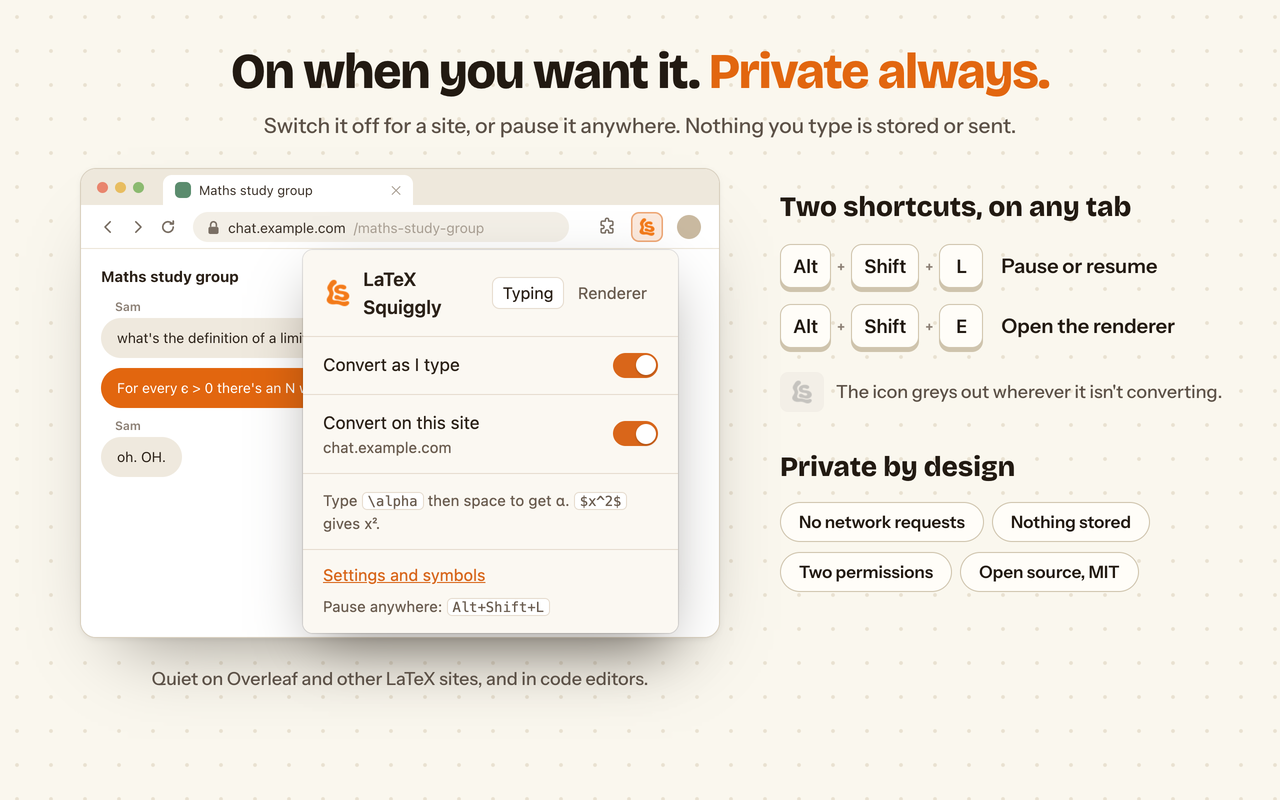
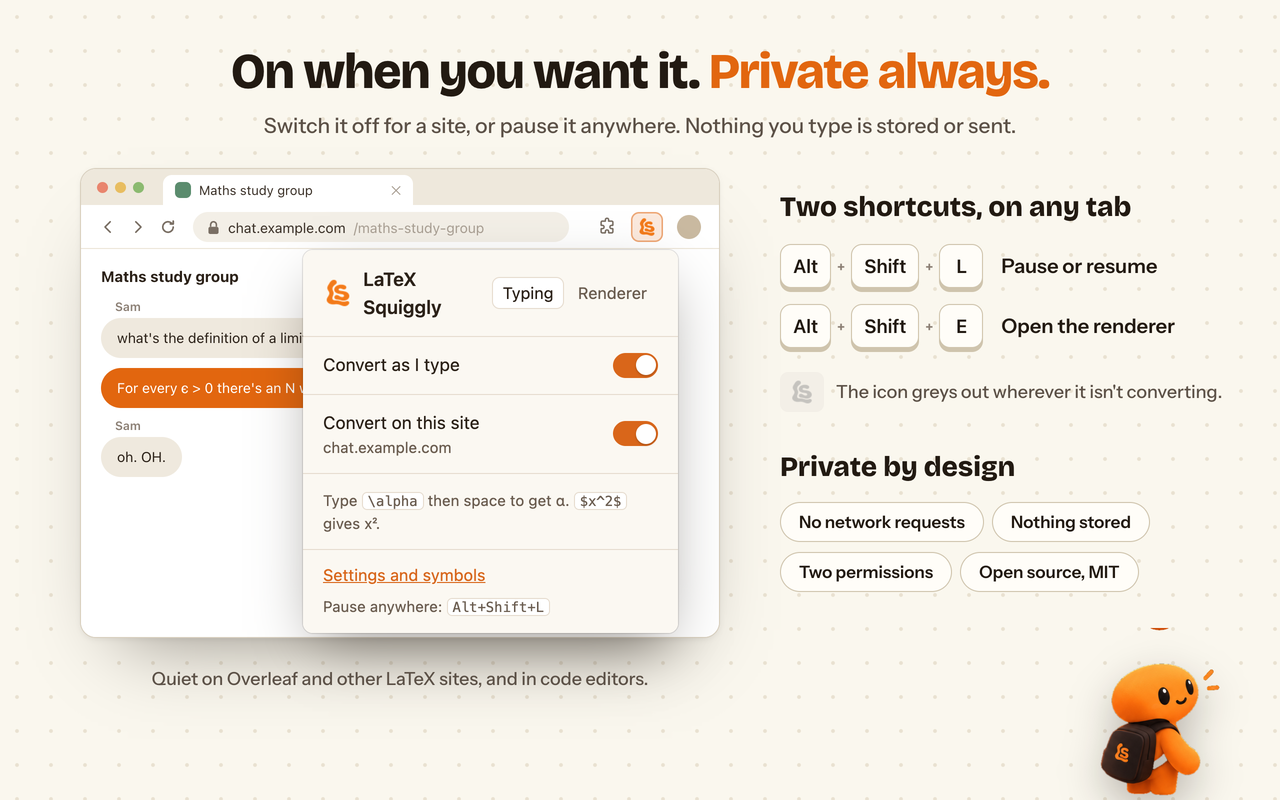
Lead the store summary with symbols and right-click, with refreshed store images

Changed region(s): [[0.8438, 0.8125, 0.9688, 1.0]]

diff --git a/chrome/STORE.md b/chrome/STORE.md
@@ -56,24 +56,53 @@ access. Updates that do not add permissions are usually faster.
 
 ## Store listing
 
-**Description**
+**Summary**
 
-Short on purpose: the first two lines are what most people read, so they say
-what it does and lead with the renderer's right-click item.
+The line under the name, in search results and at the top of the listing. It
+is `description` in `chrome/manifest.json`, at most 132 characters, so the
+dashboard cannot edit it: it changes when a package with the new text is
+uploaded.
 
 ```
-Type LaTeX in any text box and get real characters: \alpha becomes α and $x^2$ becomes x² the moment you press space.
+Type LaTeX in any text box and get real symbols (\alpha becomes α). Select LaTeX and right-click to copy it as an image.
+```
 
-Select LaTeX on any page, right-click, and choose Render selection as image. It opens already drawn: copy it as a PNG and paste it into a chat, an email, a slide or a doc.
+**Description**
 
+The first two lines are what most people read, so they say what it does, one
+line for typing and one for the renderer's right-click item. The sections
+under them explain the rest, for whoever scrolls, and end with the links. The
+store shows the description as plain text, so the links are written out in
+full.
+
+```
+Type LaTeX in any text box and get real symbols the moment you press space: \alpha becomes α, $x^2$ becomes x².
+
+Select LaTeX on any page, right-click and choose Render selection as image. Copy it as a PNG and paste it into a chat, an email, a slide or a doc.
+
+TYPING
+• \alpha → α   $x^2$ → x²   \mathbb{R} → ℝ   \sum_{i=1}^{n} → ∑ᵢ₌₁ⁿ
 • 202 symbols, plus superscripts, subscripts, fractions and roots
-• The renderer: live preview, command suggestions, colours, braces, a transparent background and a history. Alt+Shift+E opens it, Ctrl+Enter copies
+• The result is ordinary text, so anyone can read, copy and search it
 • If something can't be written exactly in plain text, a short note says what it did
-• Quiet on Overleaf, other LaTeX sites and code editors. Alt+Shift+L pauses it anywhere
-• Works in text boxes, comment fields and Google Docs (not Sheets, Slides or the address bar)
-• Private: nothing you type is stored or sent, and it makes no network requests
 
-Also a free menu bar app for Mac and tray app for Windows, which work in every app.
+RENDERER
+• For maths plain text can't hold, like stacked fractions and matrices
+• Live preview, command suggestions, colours, braces, a transparent background and a history
+• Alt+Shift+E opens it. Ctrl+Enter (Cmd+Enter on a Mac) copies the PNG
+
+WHERE IT WORKS
+• Text boxes, comment fields, web chats and Google Docs (not Sheets, Slides or the address bar)
+• Stays quiet on Overleaf, other LaTeX sites and code editors. Alt+Shift+L pauses it anywhere
+
+PRIVATE
+• Nothing you type is stored or sent, and it makes no network requests
+
+FREE AND OPEN SOURCE
+• Mac menu bar app that works in every app, not just Chrome (Windows coming soon): https://github.com/SuperWalrus01/LaTeX-Squiggly/releases/latest
+• Guide: https://superwalrus01.github.io/LaTeX-Squiggly/guide.html
+• Source code: https://github.com/SuperWalrus01/LaTeX-Squiggly
+• Report a problem: https://github.com/SuperWalrus01/LaTeX-Squiggly/issues
 ```
 
 **Category:** Productivity (or Tools, whichever the dashboard offers).
@@ -98,6 +127,10 @@ link is what the listing keeps.
 The renderer's two show its actual popup, and the PNG it copied pasted into a
 message.
 Every image is a 24-bit PNG with no alpha channel, which the store requires.
+
+For holidays, `chrome/store/holidays/` has a set of these images per holiday,
+from back to uni to Pi Day, with a themed store icon. Its README says when to
+swap each set in and how.
 
 **Homepage URL:** `https://superwalrus01.github.io/LaTeX-Squiggly/`
 
